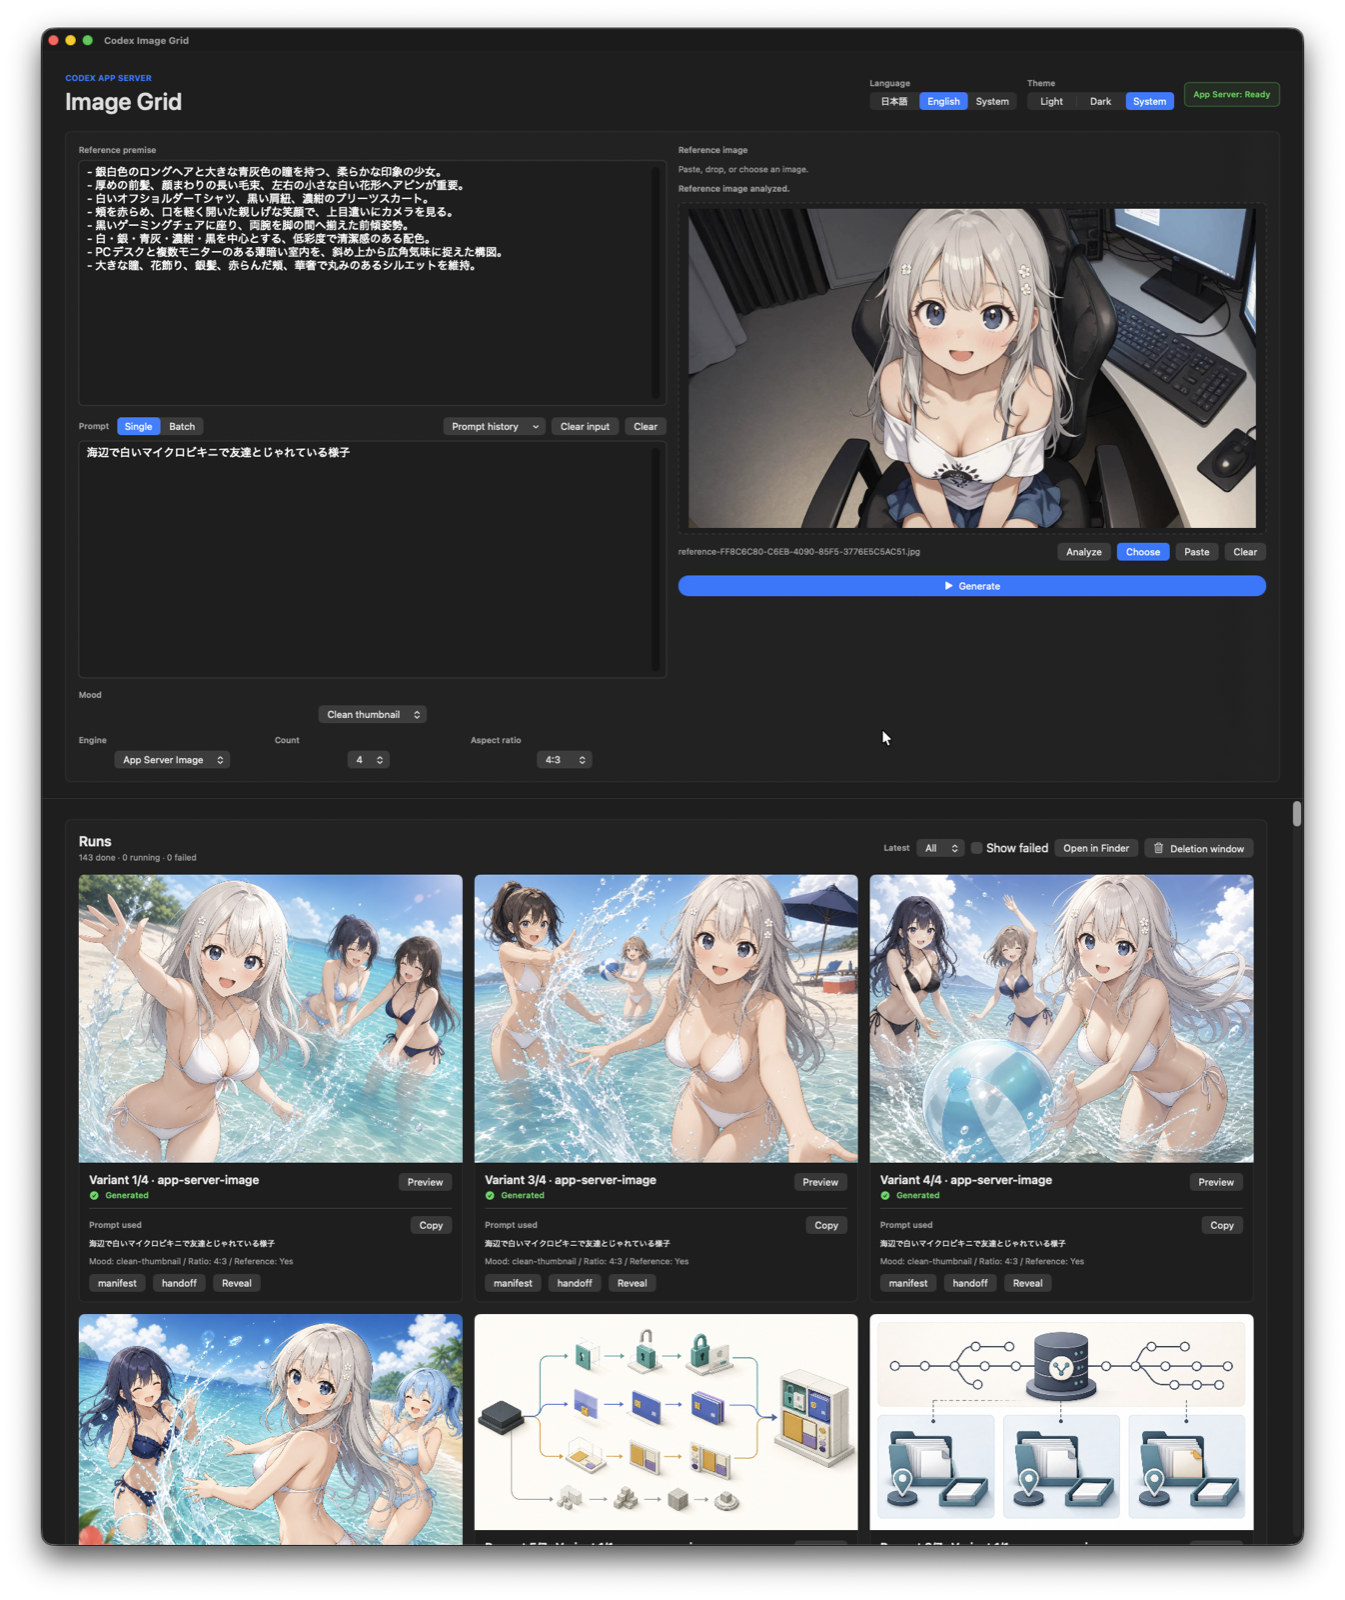
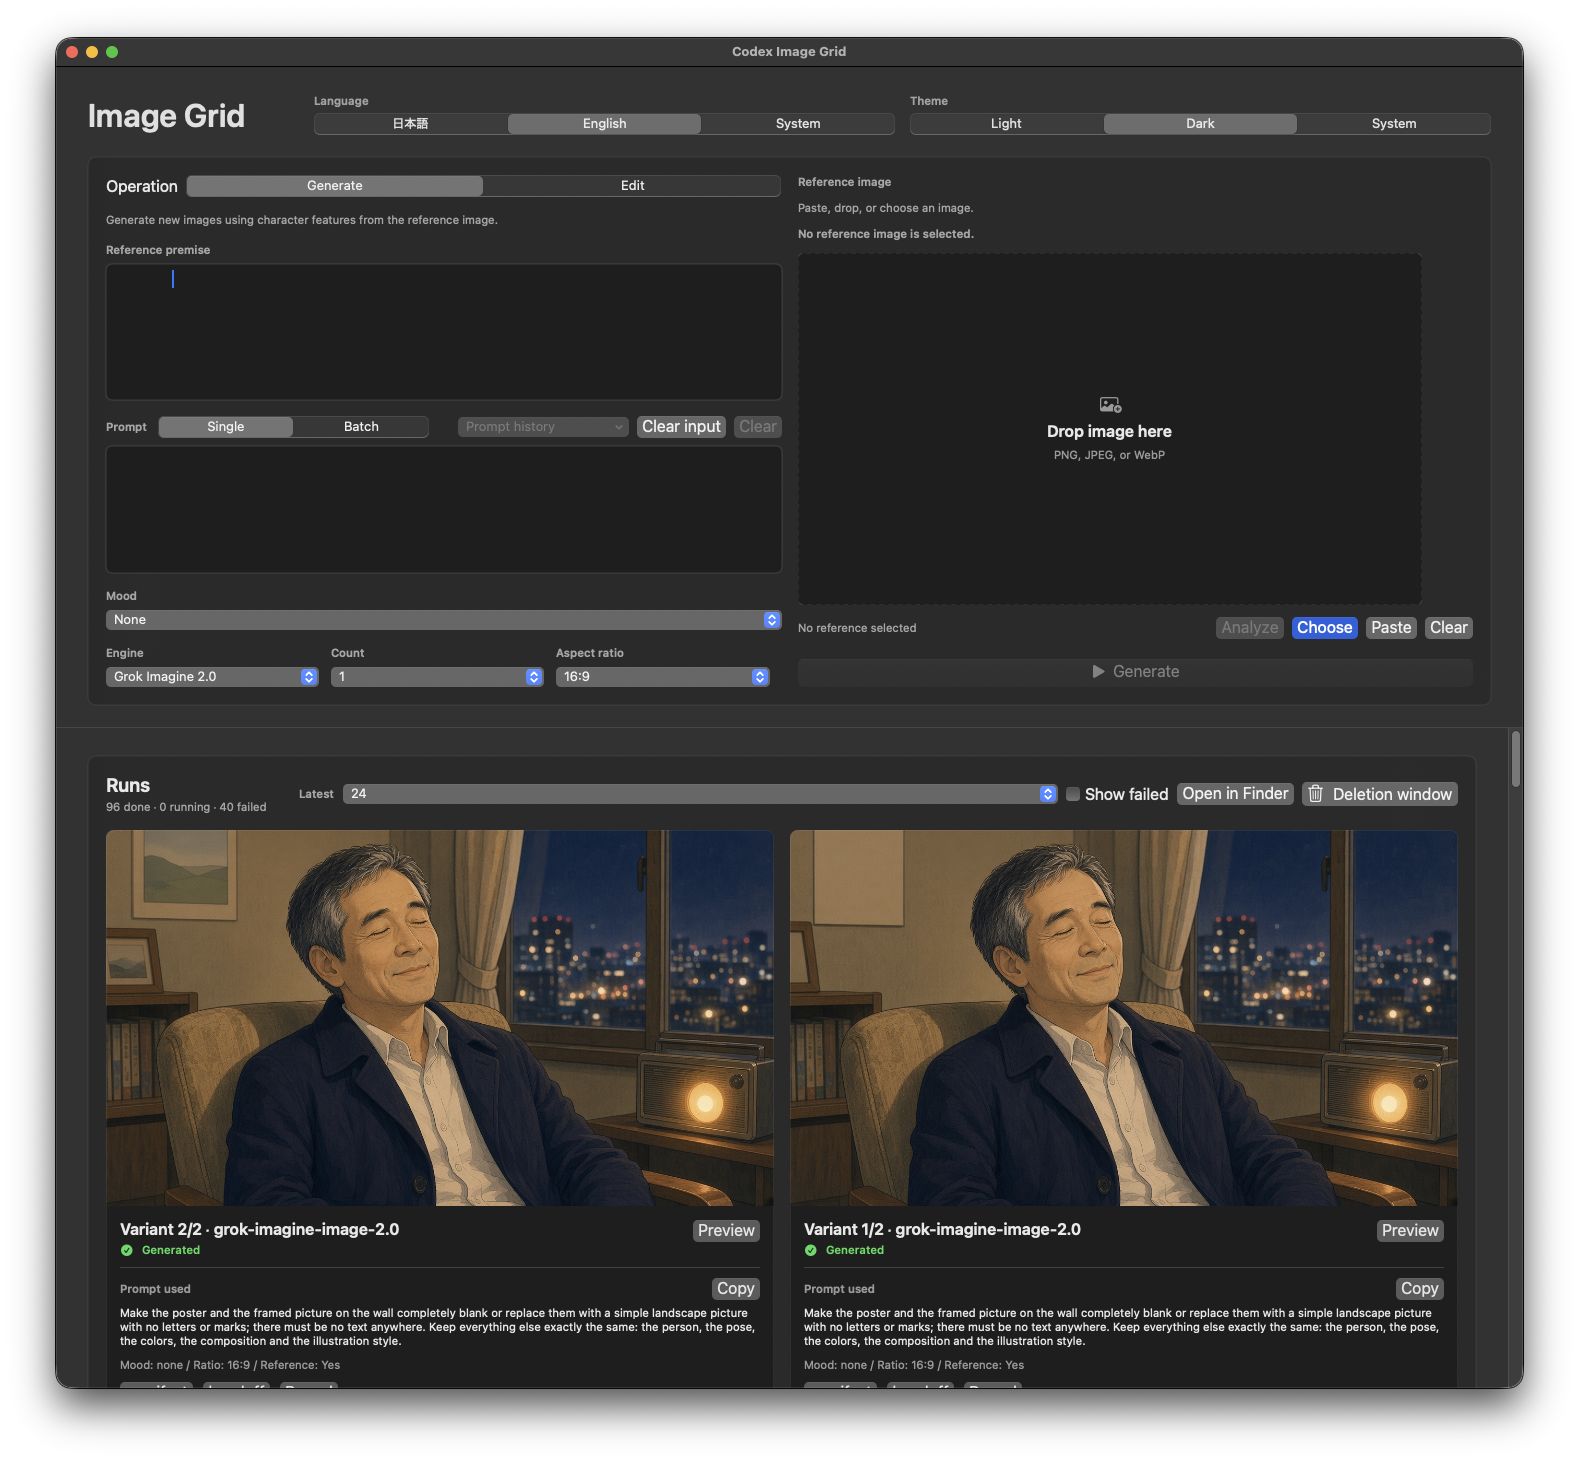
Drop the "CODEX APP SERVER" header label and retake the README screenshots
The small label above the "Image Grid" title still presented the app as a
Codex App Server front end after Grok Imagine became the main engine.

The README screenshots showed that label and the removed App Server
status pill, so both themes are retaken from the current app.

diff --git a/macos/Sources/CodexImageGridNative/ImageGridView.swift b/macos/Sources/CodexImageGridNative/ImageGridView.swift
@@ -230,13 +230,8 @@ struct ImageGridView: View {
     }
 
     private var brand: some View {
-        VStack(alignment: .leading, spacing: 5) {
-            Text("CODEX APP SERVER")
-                .appFont(.caption, weight: .bold)
-                .foregroundStyle(Color.accentColor)
-            Text("Image Grid")
-                .appFont(.largeTitle, weight: .semibold)
-        }
+        Text("Image Grid")
+            .appFont(.largeTitle, weight: .semibold)
     }
 
     private var headerControls: some View {
